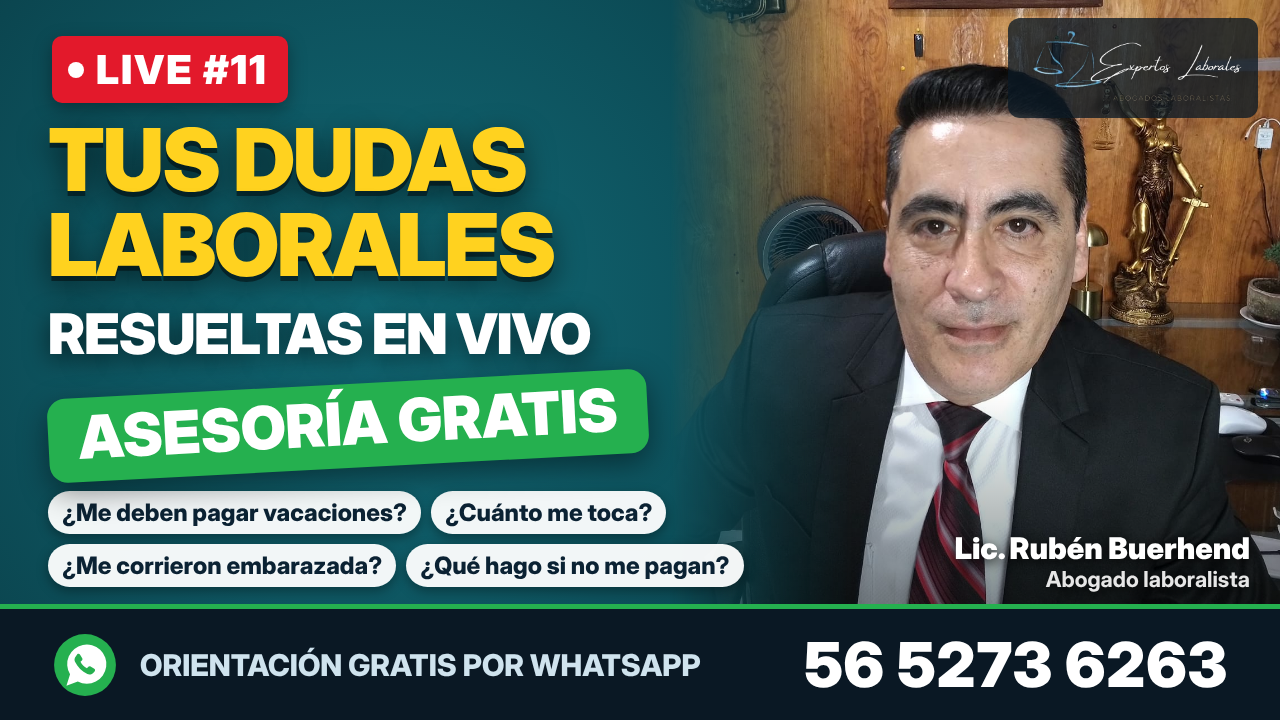
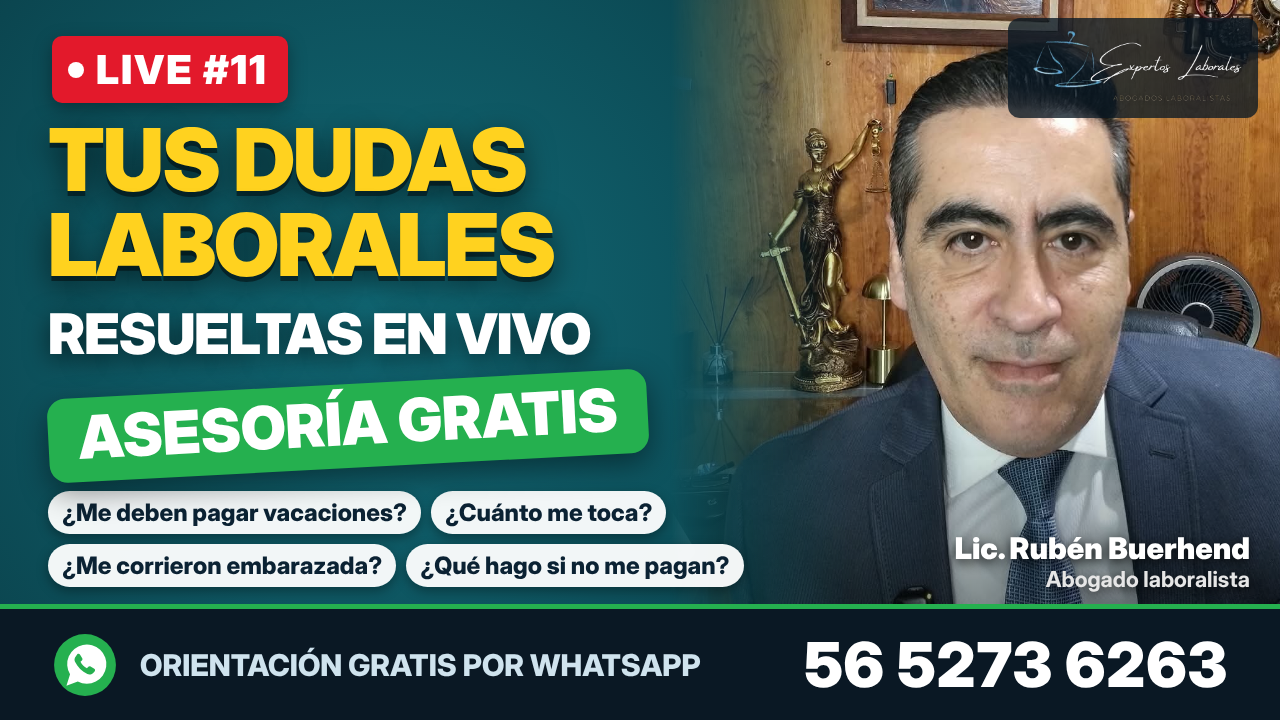
Miniatura LIVE #11 con foto nueva de traje gris
Claude-Session: https://claude.ai/code/session_01C3deJav44xscTHSyeunJhm

Changed region(s): [[0.5312, 0.0, 1.0, 0.8556], [0.5625, 0.7333, 0.5938, 0.7639]]

diff --git a/marketing/miniaturas/generar_serie_lives.js b/marketing/miniaturas/generar_serie_lives.js
@@ -8,6 +8,7 @@ const S=process.argv[2]||__dirname;
 const FOTOS={
   negro:{src:'../fotos/ruben_traje_negro.jpg',w:671,l:-60,t:-215},
   azul:{src:'../fotos/ruben_traje_azul.jpg',w:628,l:-12,t:-199},
+  gris:{src:'../fotos/ruben_selfie_traje_gris_derecha.jpg',w:744,l:-26,t:-264},
   selfie:{src:'../fotos/ruben_selfie_cerca_derecha.jpg',w:832,l:-192,t:-264,tapaDerecha:true},
 };
 const COLORES=[['#1f4e6b','#143650','#0b2233'],['#7a1a22','#4a0d14','#24060a'],['#17704a','#0e4a31','#062417'],['#5b3391','#3a1f63','#1b0d31'],['#b85a12','#7a3a0a','#331804'],['#126b78','#0b4650','#042226']];
@@ -26,7 +27,7 @@ const PREGUNTAS=[
 const fs=require('fs'), path=require('path');
 const REG=path.join(__dirname,'registro.json');
 const reg=fs.existsSync(REG)?JSON.parse(fs.readFileSync(REG,'utf8')):{};
-const FOTO_KEYS=['selfie','negro','azul'];
+const FOTO_KEYS=['selfie','negro','azul','gris'];
 const DESDE=+(process.argv[3]||1), HASTA=+(process.argv[4]||DESDE);
 function usada(c){return Object.values(reg).some(r=>r.color===c.color&&r.frase===c.frase&&r.preg===c.preg&&r.foto===c.foto);}
 function siguienteCombo(n){

diff --git a/CLAUDE.md b/CLAUDE.md
@@ -99,7 +99,7 @@ documento $49 / curso $299) → se volvieron juicio.
   el usuario avisa cada vez que sube un video -> correr
   `cd marketing/miniaturas && node generar_serie_lives.js "$(pwd)" N`,
   mandarle `live_N.png`, y anotar el video en `registro.json` ("video").**
-  Entregadas #1-#15 (el usuario tenía ~15 lives listos para subir). El generador elige los componentes MENOS usados y evita repetir color/foto/frase/preguntas con los 2 lives anteriores (la 1a versión solo alternaba azul/rojo, corregido).
+  Entregadas #1-#15 (el usuario tenía ~15 lives listos para subir). Foto nueva 'gris' (selfie traje gris-azul, corbata azul, `ruben_selfie_traje_gris_derecha.jpg`, 18 nov 2026, pedido del usuario) -- la #11 se rehízo con ella. El generador elige los componentes MENOS usados y evita repetir color/foto/frase/preguntas con los 2 lives anteriores (la 1a versión solo alternaba azul/rojo, corregido).
 - **Métricas de redes** (YouTube/TikTok): `marketing/metricas_redes.md`,
   punto de partida 16 nov 2026 (YouTube @rubenbuerhend: 24 suscriptores, 3
   videos; TikTok: 104.1K seguidores). Agregar fila con cada captura nueva

diff --git a/marketing/miniaturas/registro.md b/marketing/miniaturas/registro.md
@@ -14,7 +14,7 @@ Cada combinación (color + frase + preguntas + foto) se usa una sola vez.
 | 8 | Rojo | TUS DUDAS LABORALES | Juego 2 | negro | 2026-11-16 | (pendiente) |
 | 9 | Verde | PREGÚNTAME LO QUE QUIERAS | Juego 3 | azul | 2026-11-16 | (pendiente) |
 | 10 | Morado | ¿PROBLEMAS EN TU TRABAJO? | Juego 1 | selfie | 2026-11-16 | (pendiente) |
-| 11 | Turquesa | TUS DUDAS LABORALES | Juego 2 | negro | 2026-11-16 | (pendiente) |
+| 11 | Turquesa | TUS DUDAS LABORALES | Juego 2 | gris | 2026-11-16 | (pendiente) |
 | 12 | Naranja | PREGÚNTAME LO QUE QUIERAS | Juego 3 | azul | 2026-11-16 | (pendiente) |
 | 13 | Rojo | ¿PROBLEMAS EN TU TRABAJO? | Juego 1 | selfie | 2026-11-16 | (pendiente) |
 | 14 | Azul | TUS DUDAS LABORALES | Juego 2 | negro | 2026-11-16 | (pendiente) |
